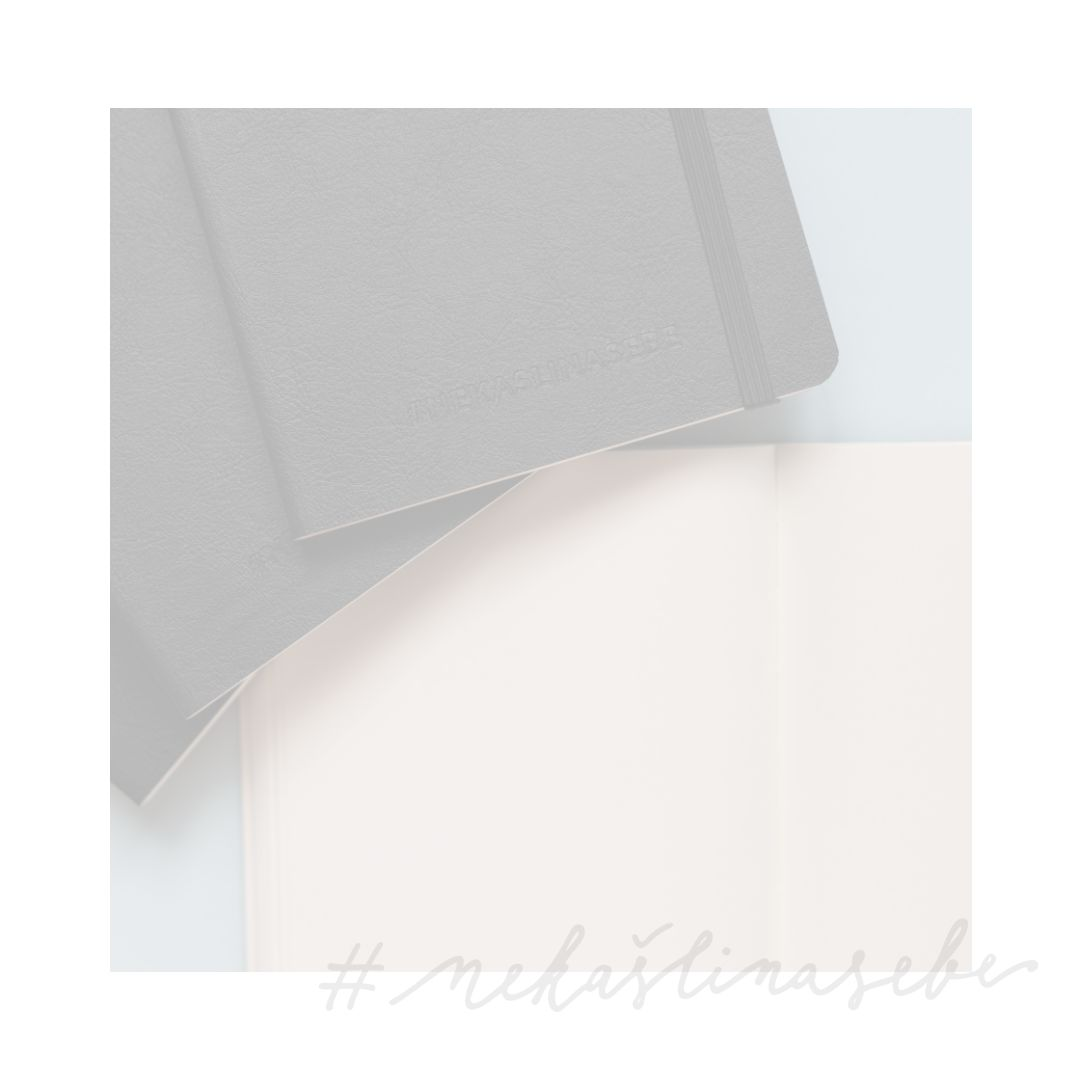
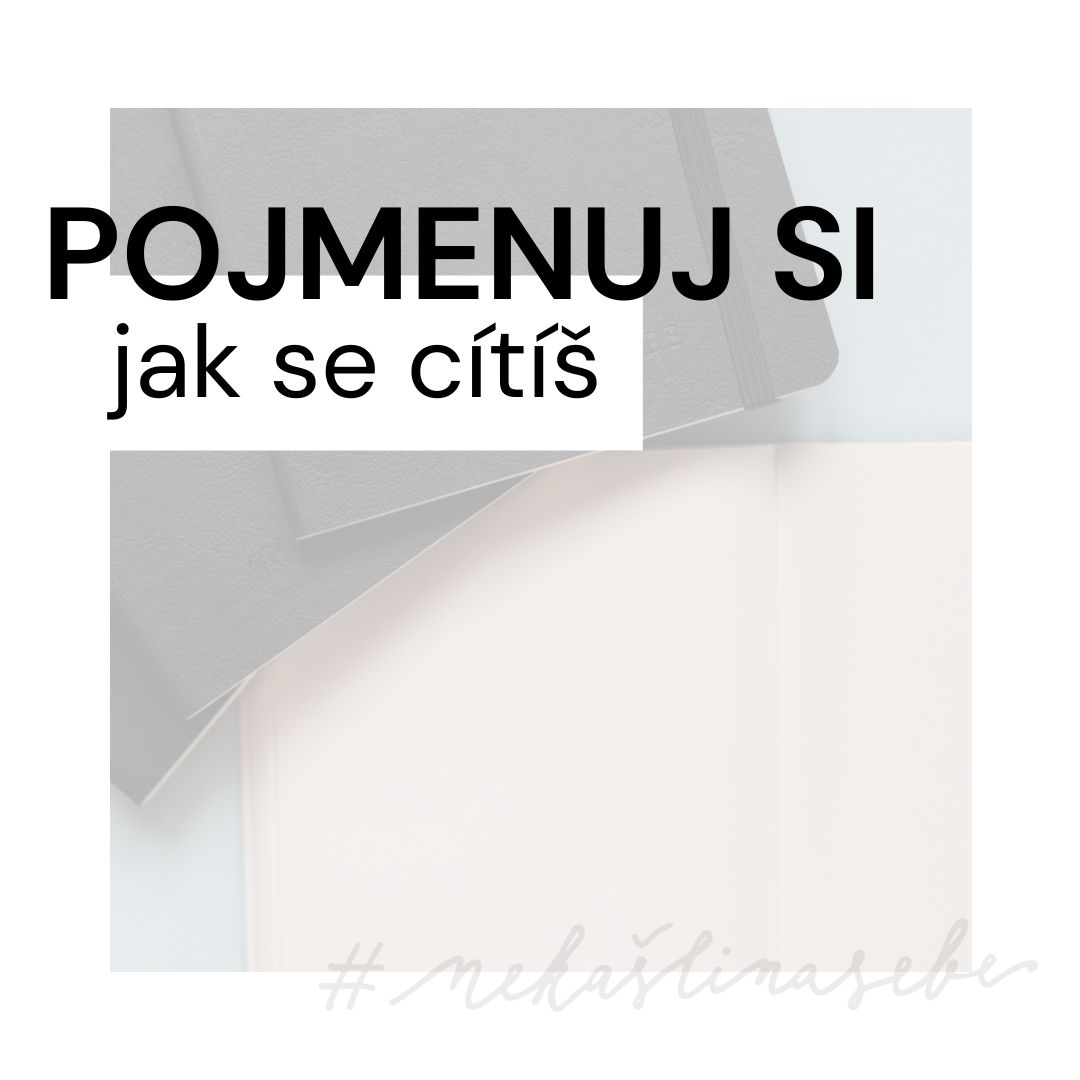
tip4

Changed region(s): [[0.0306, 0.1833, 0.825, 0.4278]]

diff --git a/tips/24-08/tip4.html b/tips/24-08/tip4.html
@@ -79,7 +79,13 @@
         <div class="row mb-8 align-items-center">
           <div class="col-md-8,9" data-aos="fade-up">
             <h2>4.tip #nekaslinasebe</h2>
-            <p>Tip tady ještě není. </p>
+            <p>Středeční tip #nekaslinasebe ti pomůže s emocemi. Dnes zkus <b>vyměnit otázku “Jak se máš?”</b> za
+              <b>“Jak se právě teď a tady cítím?”</b>. Proč? Protože na otázku “Jak se máš” nejčastěji odpovídáme
+              <b>“Dobře. V pohodě. Ujde to. Nic moc. Špatně.” </b>atd. Dnes se podíváš na to, co je doopravdy za tím
+              “dobře, v pohodě, ujde to…”. Mozek neví, jak má pracovat s abstraktním slovem “dobře”. Mnohem lépe se mu
+              pracuje s konkrétními emocemi, které má pojmenované. Protože když ví, jak se cítí, může lépe pochopit, co
+              právě v danou chvíli potřebuje. Tak hurá na to.
+            </p>
           </div>
         </div>
       </div>
@@ -88,7 +94,7 @@
         <div class="container">
           <div class="row align-items-stretch">
             <div class="col-md-8" data-aos="fade-up">
-              <img src="/assets/img/_template/img_4_big.jpg" alt="Image" class="img-fluid">
+              <img src="/assets/img/24-08/img_4_big.jpg" alt="Image" class="img-fluid">
             </div>
             <div class="col-md-4 ml-auto mb-5" data-aos="fade-up" data-aos-delay="100">
               <div class="sticky-content">
@@ -96,15 +102,31 @@
                 <p class="mb-4"><span class="text-muted">Pokud máš:</span></p>
 
                 <div class="mb-5">
-                  <p><b>1 minutku</b>:</p>
-                  <p><b>5 minut</b>:</p>
-                  <p><b>15 minut</b>:</p>
+                  <p><b>1 minutku</b>: Až se tě dnes někdo zeptá “Jak se máš?”, zkus si uvědomit, co a jakým způsobem
+                    odpovídáš. <b>Vyměň dnes “Jak se máš?”</b> za <b>“Jak se cítím?”.</b></p>
+                  <p><b>5 minut</b>: Zkus se dnes na chvíli zastavit a zeptat se <b>“Jak se právě teď a tady opravdu
+                    cítím?”</b>. Emoce a pocity si zkus <b>co nejkonkrétněji popsat nebo představit</b>. Každému z nás
+                  vyhovuje jiný styl popisu emocí. Můžeš si emoci představit jako barvu, popsat si ji slovy nebo třeba
+                  jako příšerku, která ti sedí někde na těle. <b>Zapiš si/nakresli si pocity</b> na papír nebo
+                  elektronicky do mobilu (notesu, Ipadu…). Využít k tomu můžeš <b><a href="/assets/pdfs/feelings.pdf" target="_blank">emoční tahák</a></b>, který najdeš na
+                  druhé straně templatu emočního koláče (viz 15 min. tip).</p>
+                  <p><b>15 minut</b>: Následuj 5ti minutový tip. Můžeš k němu využít náš template a udělat si <b><a href="/assets/pdfs/feelings.pdf" target="_blank">emoční koláč</a></b>. Najednou uvidíš všechny své emoce v jednom koláči, kde jim můžeš přidat určitou
+                    výseč (třeba i s procenty). Poté, co se na koláč emocí podíváš, zkus se zeptat: <b>“Co teď
+                      potřebuji?” Co potřebuji udělat, abych se cítil/a ____(zde si opět doplň konkrétní emoci)?</b>
+                    Sepiš si dané potřeby k celému emočnímu koláči nebo k jednotlivým emocím. To nechám na tobě.</p>
                 </div>
               </div>
             </div>
           </div>
           <div class="col-md-12 ml-auto mt-3">
-            <p><b>PS:</b></p>
+            <p><b>PS:</b> Na otázku “Jak se máš” reagujeme často <b>autopilotem</b> (nic našemu tělu ani mysli už neříká).
+              Když se zeptáš “Jak se cítím?”, dochází <b>k malému zastavení a opravdovému uvědomění si, jak se právě
+                teď cítíš a máš</b>. Najednou začneš používat více konkrétních emočních slov. Místo “dobře”
+              zjišťuješ, že se máš zahlceně, vděčně, nervózně nebo třeba natěšeně, vděčně a nabuzeně. Čím
+              konkrétnější v pojmenování emocí jsi, tím lépe se ti s nimi bude pracovat (ověřeno vědecky i
+              prakticky). Tak se nezapomeň dnes sebe (a třeba i okolí) zeptat: <b>“Jak se cítíš?”. </b> Nezapomeň. Jsem v tom s tebou, Terka.</p> <b>Emoční tahák k zakoupení</b> najdeš samostatně <b><a href="https://kpsychologovi.cz/product/emocni-tahak/"
+                target="_blank">zde</a></b> a v setu <b>s #nekaslinasebe zápisníkem</b> v různých barvách <b><a href="https://kpsychologovi.cz/product/set-doller-feat-nekaslinasebe-zapisnik/"
+                  target="_blank">tady.</a></b> Děkujeme za podporu. Vážíme si toho. Terka a celý tým Kpsychologovi.
           </div>
         </div>
       </div>
